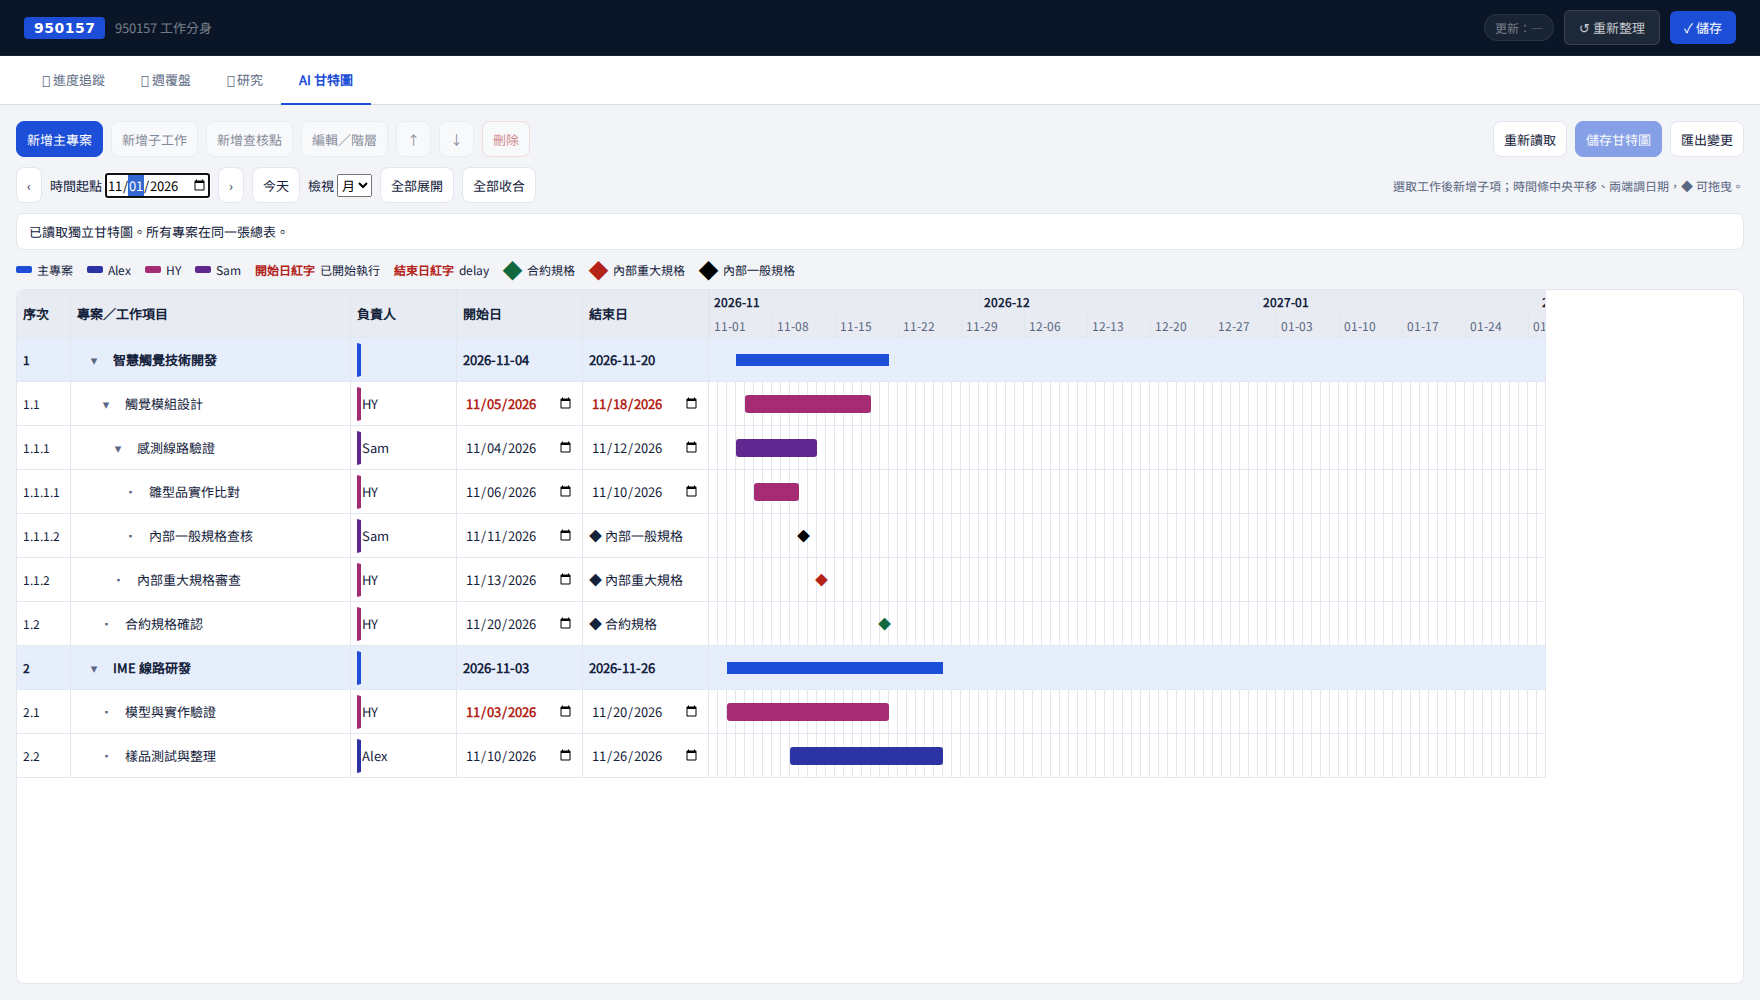
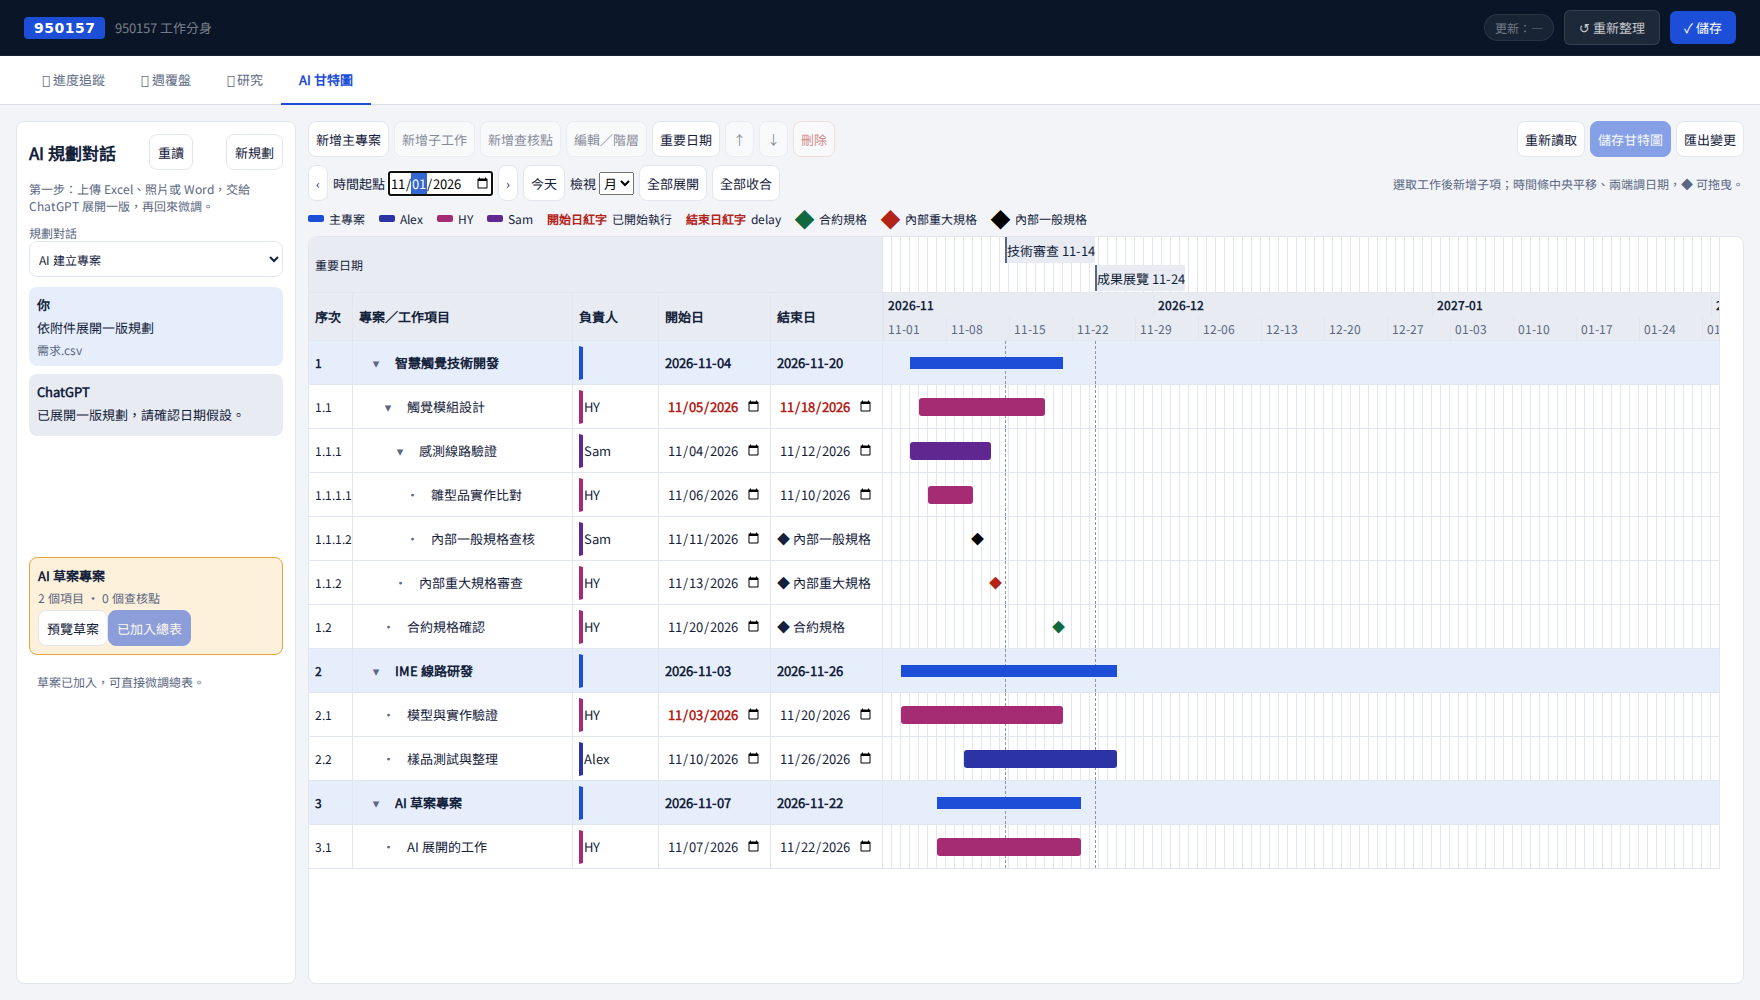
950157 甘特圖：訂閱模型 AI 建案接力、附件規劃、日檢視與重要日期

Changed region(s): [[0.0, 0.124, 1.0, 0.868], [0.7812, 0.124, 1.0, 0.217], [0.4375, 0.124, 0.4688, 0.155]]

diff --git a/public/gantt-950157.css b/public/gantt-950157.css
@@ -14,3 +14,9 @@
 @media(max-width:640px){.g-row{grid-template-columns:44px 180px 90px 112px 112px var(--g-width)}.g-name{max-width:180px}}
 
 .g-row .g-cell.g-date-red,.g-date-label{color:var(--hy-bad);font-weight:700}.g-date-flags{display:grid;gap:4px}.g-form .g-date-flags label{display:flex;align-items:center;gap:8px;min-height:36px}.g-form .g-date-flags input[type=checkbox]{width:18px;min-height:18px;height:18px;padding:0;accent-color:var(--hy-brand)}
+/* Desktop planning workspace. Existing mobile layout is deferred by user. */
+.g-workspace{display:grid;grid-template-columns:280px minmax(0,1fr);gap:12px;flex:1;min-height:0}.g-schedule{min-width:0;min-height:0;display:flex;flex-direction:column;gap:8px}.g-workspace .g-scroll{max-height:none;min-height:200px}.g-planner{display:flex;flex-direction:column;gap:10px;min-height:0;overflow:auto;border:1px solid var(--hy-line);border-radius:var(--hy-r-sm);background:var(--hy-surface);padding:12px}.g-planner-head{display:flex;justify-content:space-between;align-items:center;gap:6px}.g-planner h2{font-size:17px;margin:0}.g-planner .hy-btn{min-height:36px;font-size:12px;padding:5px 8px}.g-plan-sessions{width:100%;min-height:36px;border:1px solid var(--hy-line);background:var(--hy-surface);color:var(--hy-ink);border-radius:var(--hy-r-sm);padding:5px}.g-plan-history{min-height:90px;max-height:260px;flex:1;overflow:auto}.g-plan-message{font-size:13px;margin-bottom:8px;padding:8px;background:var(--hy-sunken);border-radius:var(--hy-r-sm)}.g-plan-message.is-user{background:var(--hy-ai-bg)}.g-plan-message p{white-space:pre-wrap;overflow-wrap:anywhere;margin:4px 0}.g-plan-attachment{display:block;font-size:12px;color:var(--hy-muted);overflow-wrap:anywhere}.g-plan-form{display:flex;flex-direction:column;gap:8px}.g-plan-form textarea,.g-plan-handoff textarea{width:100%;min-height:100px;resize:vertical;border:1px solid var(--hy-line);border-radius:var(--hy-r-sm);padding:8px;color:var(--hy-ink);background:var(--hy-surface);font:inherit;font-size:13px;box-sizing:border-box}.g-plan-handoff{border:1px solid var(--hy-you-line);border-radius:var(--hy-r-sm);padding:8px;background:var(--hy-you-bg)}.g-plan-handoff textarea{min-height:70px;font-size:12px;margin:6px 0}.g-plan-upload{display:flex;align-items:center;justify-content:center;cursor:pointer}.g-plan-upload input{position:absolute;width:1px;height:1px;opacity:0}.g-plan-files{overflow-wrap:anywhere}.g-plan-alert{padding:8px;color:var(--hy-muted);font-size:12px;white-space:pre-wrap}.g-plan-alert[data-error=true]{color:var(--hy-bad);background:var(--hy-bad-bg)}.g-proposal-card{padding:8px;border:1px solid var(--hy-you-line);border-radius:var(--hy-r-sm);background:var(--hy-you-bg);font-size:13px}.g-proposal-card p{margin:4px 0}.g-proposal-dialog{width:min(960px,calc(100vw - 40px))}.g-proposal-table{overflow:auto;max-height:50vh}.g-proposal-table table{border-collapse:collapse;width:100%;font-size:13px}.g-proposal-table th,.g-proposal-table td{padding:7px;border:1px solid var(--hy-line);text-align:left}.g-assumptions{padding:10px;background:var(--hy-you-bg);font-size:13px}.g-assumptions ul{margin:4px 0;padding-left:20px}.g-important-band{position:sticky;top:0;z-index:6;min-height:28px}.g-important-title{font-size:12px;gap:8px;background:var(--hy-sunken)}.g-important-label{position:absolute;max-width:150px;height:26px;white-space:nowrap;overflow:hidden;text-overflow:ellipsis;border:0;border-left:2px solid var(--hy-muted);border-radius:0;background:var(--hy-sunken);color:var(--hy-ink);font-size:12px;text-align:left;cursor:pointer}.g-important-line{position:absolute;top:0;height:100%;border-left:1px dashed var(--hy-dim);pointer-events:none;z-index:1}.g-bar,.g-mark{z-index:2}.g-head{top:var(--g-dates-height,0px)}.g-inline{border:0;background:none;color:var(--hy-brand);font:inherit;cursor:pointer;text-align:left;padding:4px}.g-date-list-row{display:flex;gap:8px;justify-content:space-between;align-items:center;padding:4px 0;border-bottom:1px solid var(--hy-line)}.g-date-list{max-height:180px;overflow:auto}
+@media(min-width:900px){.g-row{grid-template-columns:44px 220px 86px 112px 112px var(--g-width)}.g-row input{font-size:12px}.g-actions{gap:5px}.g-actions .hy-btn{padding:4px 7px}}
+@media(max-width:899px){.g-workspace{grid-template-columns:260px minmax(0,1fr)}}
+
+.g-message:not([data-error=true]){position:absolute;width:1px;height:1px;overflow:hidden;clip-path:inset(50%);white-space:nowrap;padding:0;border:0}

diff --git a/docs/quality/950157-gantt-planning-v2.md b/docs/quality/950157-gantt-planning-v2.md
@@ -1,0 +1,48 @@
+# 950157 甘特圖：AI 建案接力與重要日期
+
+## 使用者本輪要求與畫面規劃
+
+主要工作：先把 Excel、照片或計畫書交給 ChatGPT 展開一版新專案，再確認加入總表並微調。唯一焦點是「規劃草案 → 確認加入」，不是一開始要求使用者逐筆手動建案。
+
+桌面採左側 280px AI 規劃對話、右側原總表。既有頁首與四個分頁不變，無外層導航、重複網站標題。沿用 hy-ui token、hy-btn、灰／藍／琥珀狀態；新元件是附件區、對話氣泡、草案預覽、重要日期參考線。原「已讀取獨立甘特圖…」常駐說明移除；載入／儲存通知以輔助技術讀取，只有錯誤才佔畫面空間。
+
+使用者要求本輪先不處理手機版；本輪驗收與 CI 聚焦 1280px／1760px 桌面，不宣稱新版手機版已驗收。
+
+## 不串模型 API 的實際流程
+
+1. 左側輸入需求、加入附件，按「送出規劃需求」。
+2. 複製畫面提供的接力訊息，到已連接 HY Life OS 的 ChatGPT 貼上。
+3. ChatGPT 用目前訂閱模型分析附件、提出規劃；網站不呼叫模型 API，也不在背景自行執行模型。
+4. 回網頁按「讀取 AI 回覆」或「重讀」，可繼續對話修訂，或開「預覽草案」查看工作、父層、負責人、日期與待確認假設。
+5. 按「確認加入總表」才正式新增一個專案。既有專案不被取代；總表有未儲存變更時禁止套用。之後直接手動微調。
+
+這是與現有 Slide Studio 同類的訂閱模型接力方式，僅沿用 MCP 驗證及傳輸模式。所有甘特圖請求、附件與草案獨立儲存，不讀取或修改 Slide Studio／Bot Office／原 950157 業務資料。新增 MCP 工具為 gantt_planning_list／gantt_planning_read／gantt_planning_respond；首次部署後若 ChatGPT 找不到工具，需更新 HY Life OS 連線的工具清單。
+
+## 檔案與邊界
+
+- 支援 Excel：xlsx／xls／csv；Word：docx；照片：png／jpg／jpeg／webp；文字：txt／md。
+- 每次最多 5 個檔案，合計 8MB。Excel 讀取儲存的值與日期，保留非黑白字色與縮排提示；不執行巨集或公式。Word 讀取本文與表格文字，內嵌照片需另傳圖片。舊 doc 請另存 docx。
+- 長文擷取至 100,000 字並標示截短；照片縮圖保留給 ChatGPT 視覺分析，非使用程式假裝 OCR／AI 規劃。
+- 每段對話最多 30 則、每個草案最多 200 項；本階段只規劃一個新主專案，不用 AI 直接改寫已加入總表的專案。
+- 假設日期與負責人需列出供人類確認。重試不重複新增，且不覆寫已套用後的人類微調。
+
+## 檢視與重要日期
+
+- 日／週／月：日為 48px／天、14 天；週為 30px／天、28 天；月為 9px／天、93 天，可改起點與前後期間，拖曳皆按天同步。
+- 「重要日期」可新增、編輯、刪除展覽／審查／其他日期。名稱及日期顯示在時間軸上方，垂直虛線穿越所有專案。
+- 共用重要日期不使用三色菱形；合約／內部重大／內部一般規格查核點維持綠／紅／黑 ◆。
+- 已開始執行的開始日紅字、delay 的結束日紅字維持不變。主專案統一色，工作依負責人色。
+
+## 驗證
+
+- 前端全部單測：123 通過。
+- Playwright／Chromium 桌面驗收：保留既有四種拖曳、階層、日期紅字、錯誤處理、原分頁測試；新增日檢視、重要日期管理與所有列參考線、附件接力、草案預覽、人類確認追加專案。
+- 後端相關驗收：47 通過（解析真實 XLS／XLSX、Word XML、PNG／CSV、MCP 圖片、登入／工具權限、版本衝突、提案不寫總表、舊用戶端保留重要日期、套用重試保留人工修改）。
+- GUI 的 ChatGPT 回覆為隔離 mock，用於驗證傳輸與套用流程；沒有呼叫付費模型或寫入正式資料。實際訂閱模型規劃品質須部署、更新工具清單後，由 ChatGPT 接力驗收。
+- 截圖檢查後調整了左欄資訊分組、移除成功訊息的畫面佔位，並補充 Excel 字色提示與接力訊息；最終畫面見下。
+
+![AI 規劃與總表](ui/gantt/ai-ready-1280.png)
+![套用後桌面總表](ui/gantt/desktop-1280.png)
+![等待 ChatGPT 接力](ui/gantt/ai-handoff-1280.png)
+![草案預覽](ui/gantt/ai-proposal-1280.png)
+![完整示範](ui/gantt/demo-complete.png)
